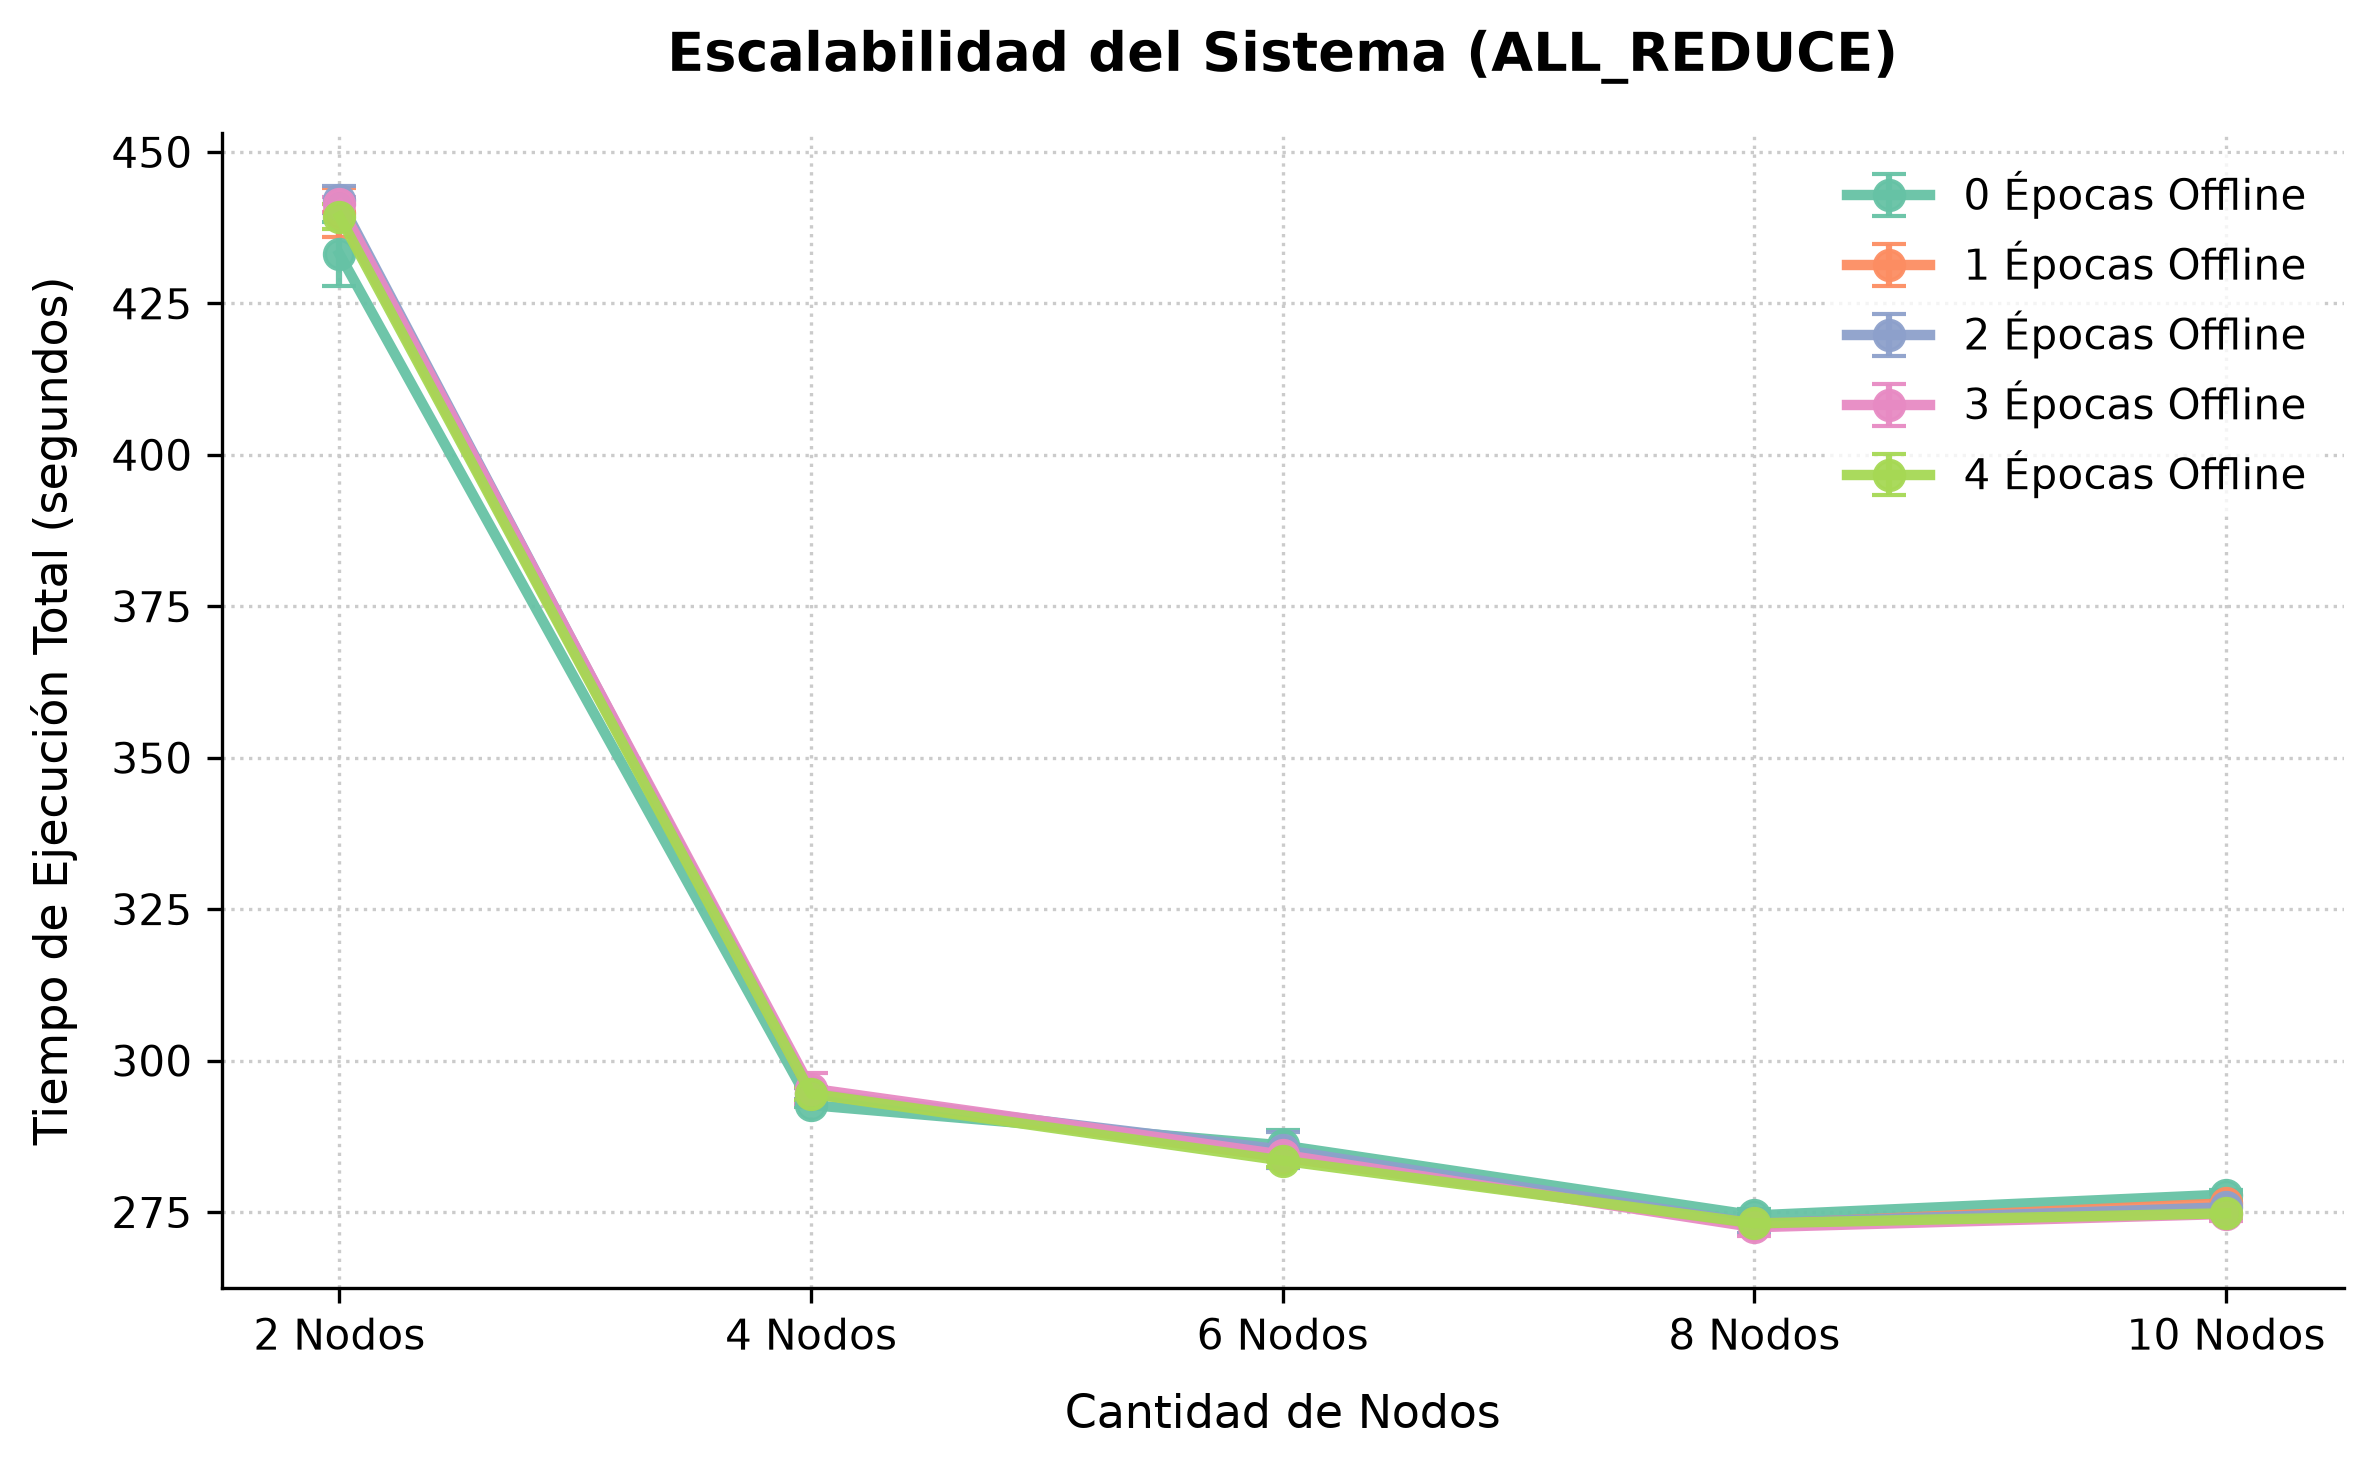
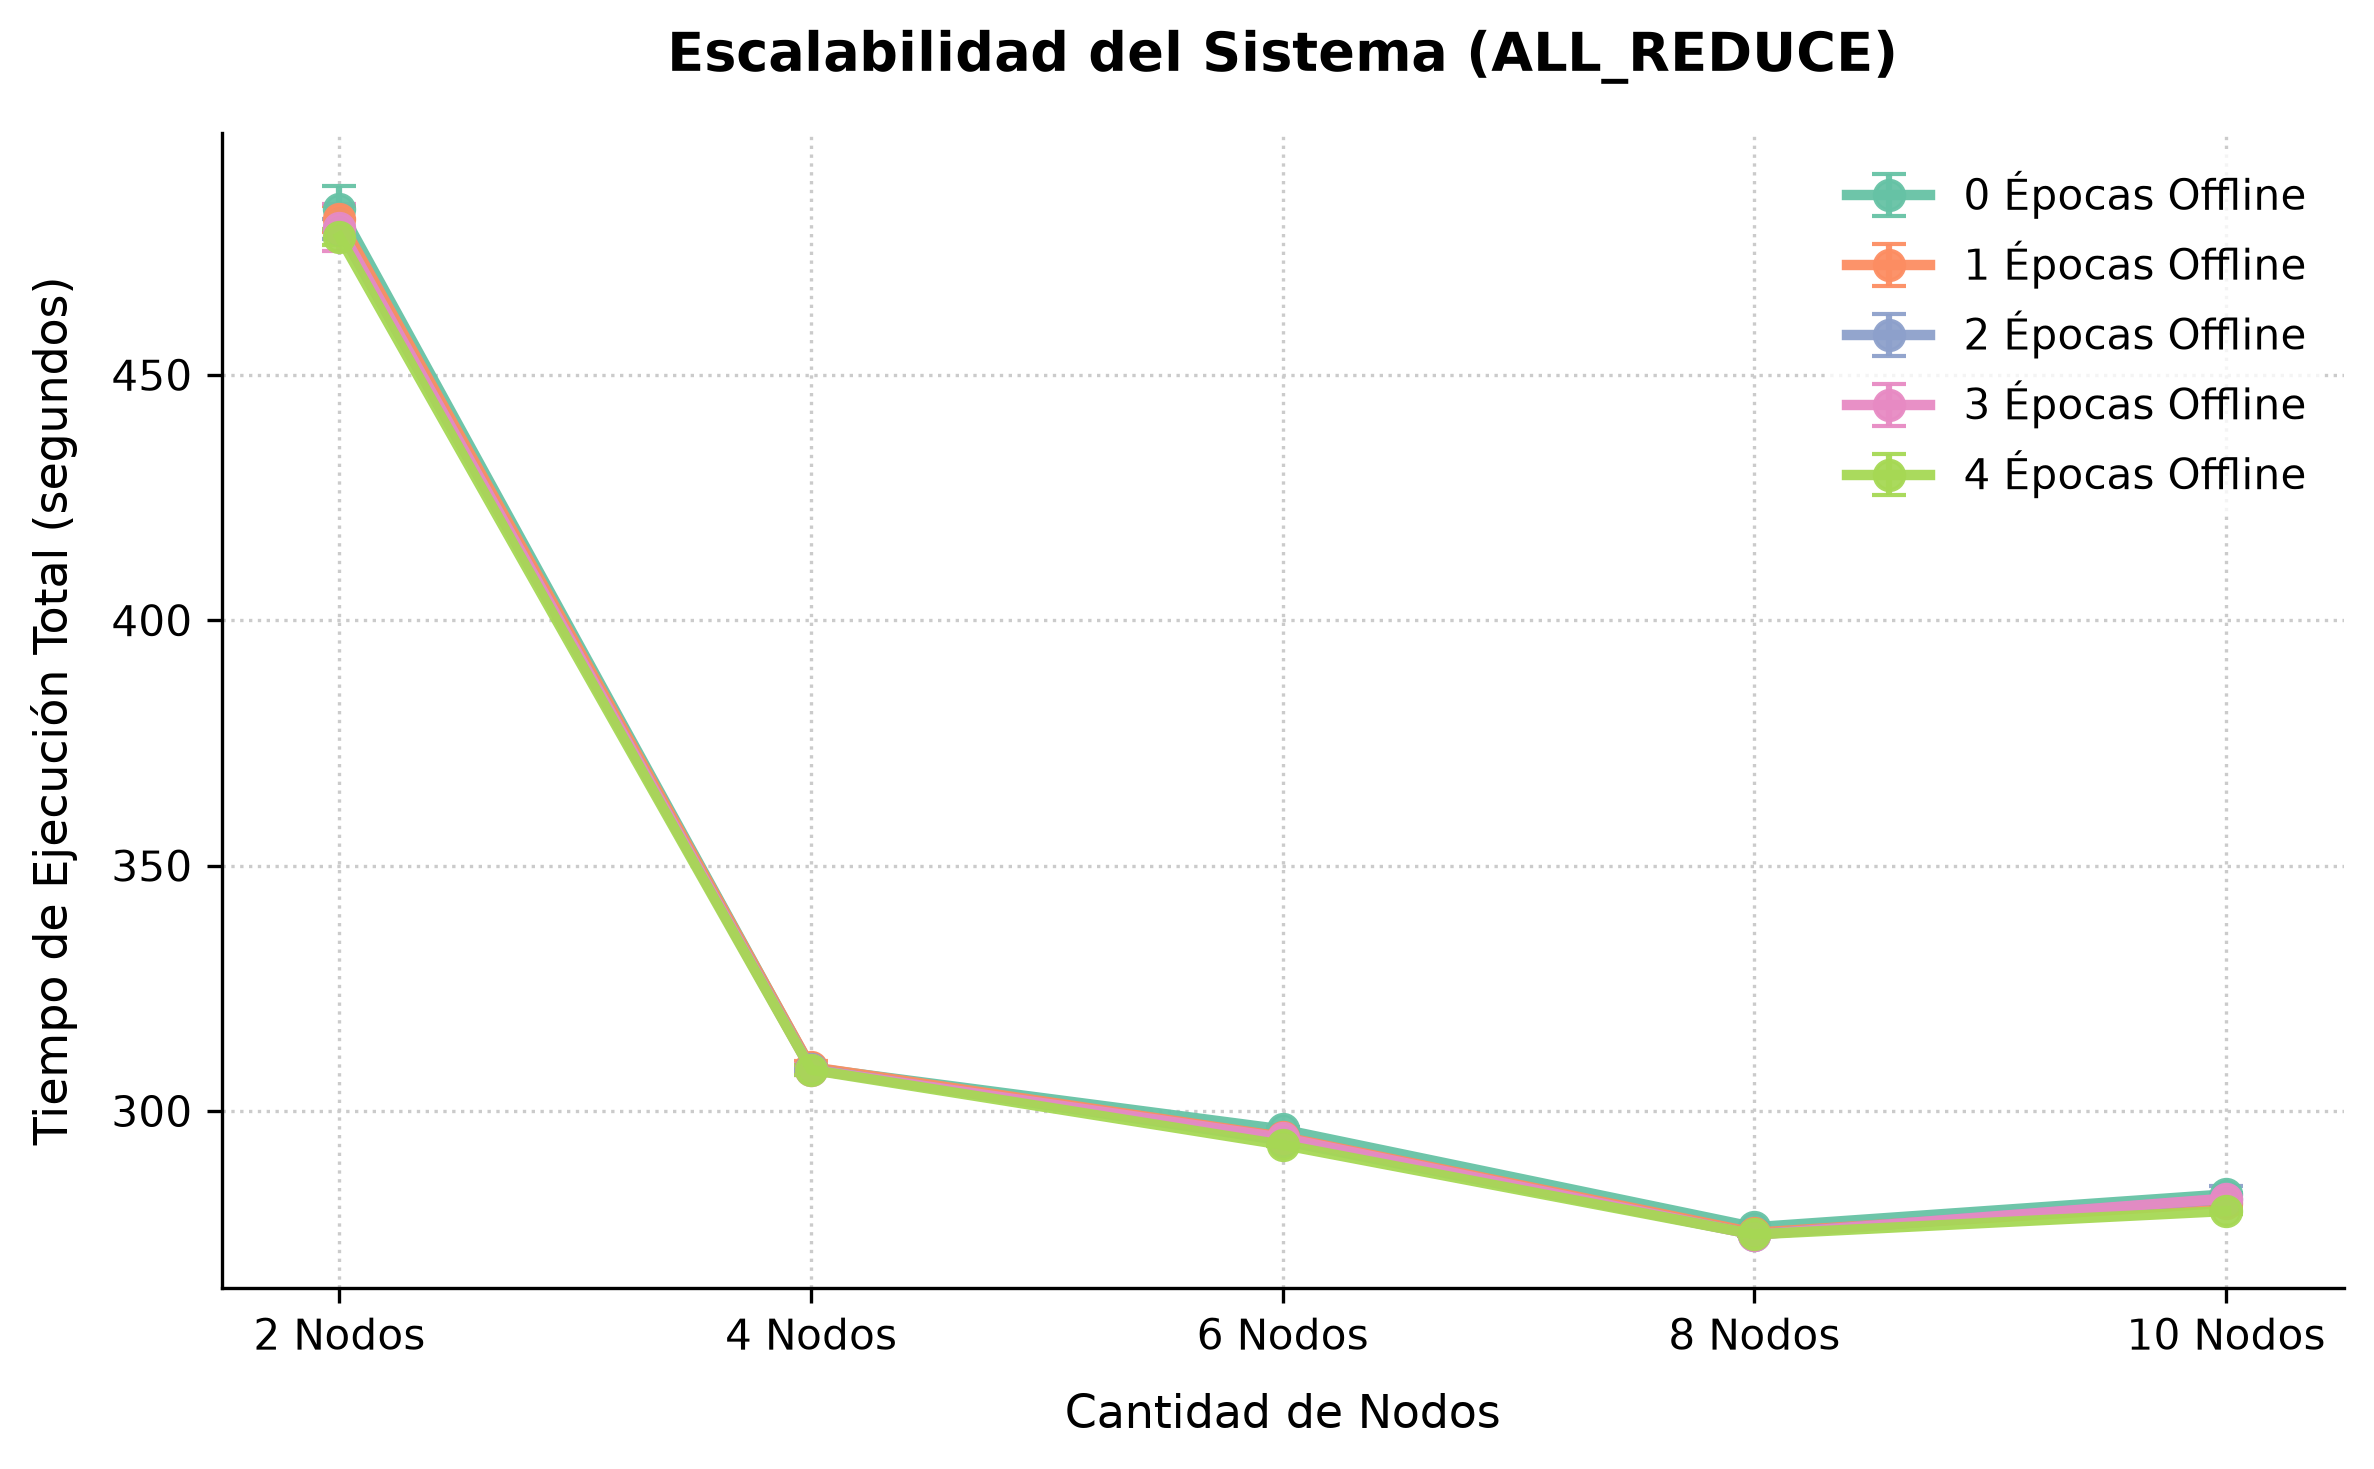
chore: correccion del ensayo II (epocas offline)

diff --git a/docs/report/experimentacion.md b/docs/report/experimentacion.md
@@ -156,30 +156,30 @@ La conclusión, entonces, es condicional y no absoluta: bajo estas condiciones c
 
 Permitir que los nodos operen de forma autónoma durante varias épocas posterga el intercambio de parámetros, disminuyendo la dependencia de la red y priorizando el cómputo local. Sin embargo, demorar la sincronización introduce divergencia entre los pesos de los nodos, un fenómeno conocido como *client drift* [@mcmahan2017federated]. O.N.O. expone este mecanismo como un parámetro de configuración, las épocas offline ($E$), lo que permite estudiarlo de forma directa.
 
-La pregunta es: ¿cómo impactan las épocas offline en la velocidad y en la eficacia del modelo entrenado? La hipótesis de partida era la que motiva la técnica: que un $E$ mayor reduciría el tiempo total a costa de alguna pérdida de exactitud, y que existiría un punto de equilibrio aprovechable.
+La pregunta es: ¿Cómo impacta la variación de las épocas offline $E$ en la velocidad de convergencia, el tiempo de comunicación y la eficacia del modelo entrenado bajo distintas topologías de red en un entorno distribuido con restricciones de red reales?
 
 ### Metodología
 
-Se ejecutaron entrenamientos sobre una misma arquitectura, conjunto de datos e hiperparámetros, variando únicamente el algoritmo distribuido, la cantidad de nodos y el valor de $E$. Todos los ensayos se realizaron de forma secuencial sobre la misma máquina, sumando un total de 10,5 horas de ejecución.
+Se ejecutaron entrenamientos sobre una misma arquitectura, conjunto de datos e hiperparámetros, variando únicamente el algoritmo distribuido, la cantidad de nodos y el valor de $E$. Todos los ensayos se realizaron de forma secuencial sobre la misma máquina, sumando un total de 11 horas y 15 minutos de ejecución.
 
-| Categoría | Parámetro | Valores |
-|---|---|---|
-| Modelo y datos | Dataset | MNIST completo [@lecun1998gradient] |
-|  | Arquitectura | LeNet-5 |
-|  | Función de pérdida | Entropía cruzada |
-| Optimización | Optimizador | Adam ($\alpha=0{,}01$; $\beta_1=0{,}9$; $\beta_2=0{,}999$; $\epsilon=10^{-8}$) |
-|  | Tamaño de mini-batch | 64 |
-|  | Épocas máximas | 48 |
-| Infraestructura | Serialización | Dispersa ($r=0{,}5$) |
-| Variables libres | Algoritmo | All-Reduce, Parameter Server sincrónico |
-|  | Nodos | 2, 4, 6, 8, 10 |
-|  | Épocas offline | 0, 1, 2, 3, 4 |
+| Categoría        | Parámetro            | Valores                                                                        |
+|------------------|----------------------|--------------------------------------------------------------------------------|
+| Modelo y datos   | Dataset              | MNIST completo [@lecun1998gradient]                                            |
+|                  | Arquitectura         | LeNet-5                                                                        |
+|                  | Función de pérdida   | Entropía cruzada                                                               |
+| Optimización     | Optimizador          | Adam ($\alpha=0{,}01$; $\beta_1=0{,}9$; $\beta_2=0{,}999$; $\epsilon=10^{-8}$) |
+|                  | Tamaño de mini-batch | 64                                                                             |
+|                  | Épocas máximas       | 48                                                                             |
+| Infraestructura  | Serialización        | Dispersa ($r=0{,}5$)                                                           |
+| Variables libres | Algoritmo            | All-Reduce, Parameter Server sincrónico                                        |
+|                  | Nodos                | 2, 4, 6, 8, 10                                                                 |
+|                  | Épocas offline       | 0, 1, 2, 3, 4                                                                  |
 
 : Configuración de los ensayos. En Parameter Server, la mitad de los nodos son workers y la otra mitad servidores.
 
-Al parametrizar $E>0$, los nodos entrenan aislados durante múltiples ciclos y el tráfico de red se reduce de forma aproximadamente inversamente proporcional a $E$. Al alcanzar la etapa de sincronización, la consolidación se realiza por promedio directo de los gradientes parciales, de modo que bajo descenso por gradiente la actualización responde a
+Al parametrizar $E>0$, los nodos entrenan aislados durante múltiples ciclos y el tráfico de red se reduce de forma aproximada inversamente proporcional a $E$. Al alcanzar la etapa de sincronización, la consolidación se realiza por promedio directo de los gradientes parciales, de modo que bajo descenso por gradiente la actualización responde a
 
-$$W_{t+1} = W_{t} - \frac{\lambda}{N}\sum_{i=1}^{N} G_{i}.$$
+$$W_{t + E} = W_{t} - \frac{\lambda}{N} \sum_{i=1}^{N} G_{i}^{(E)}$$
 
 Los ensayos se realizaron con la serialización dispersa que implementa el sistema, siguiendo el enfoque de Aji y Heafield [@aji2017sparse]. El parámetro $r$ acota el muestreo del gradiente que se transmite: se calcula la cardinalidad efectiva del mensaje como
 
@@ -187,7 +187,9 @@ $$k = \operatorname{round}\bigl(|g|\cdot(1-r)\bigr),$$
 
 y ese valor $k$ se utiliza para escoger los $k$ elementos de mayor magnitud absoluta del tensor de gradientes local, fijando un umbral mínimo. Los elementos descartados se acumulan en un gradiente residual que se considera en el mensaje siguiente. Con $r=0{,}5$, la mitad de los componentes queda fuera de cada mensaje.
 
-El entorno de ejecución fue un procesador Intel Core i5-8350U (4 núcleos físicos, 8 hilos lógicos, 1,7 GHz base y 3,6 GHz turbo) con 8 GB de memoria DDR4, sobre Ubuntu 24.04 LTS, Docker 29.6.1, Rust 1.96.1 y CPython 3.14.0.
+El entorno de ejecución fue un procesador Intel Core i5-8350U (4 núcleos físicos, 8 hilos lógicos, 1,7 GHz base y 3,6 GHz turbo) con 8 GB de memoria DDR4, sobre Ubuntu 24.04 LTS, Docker 29.6.1, Rust 1.96.1, CPython 3.14.0 y Pumba 1.1.7.
+
+Con Pumba se logró emular una red hogareña típica en cuestión de delay, jitter y ancho de banda.
 
 ### Resultados: tiempo de ejecución
 
@@ -227,7 +229,7 @@ En All-Reduce se observa un patrón similar, aunque con oscilaciones relativamen
 
 ### Discusión y limitaciones
 
-La ventaja de introducir épocas offline es estrictamente reducir el tiempo de entrenamiento. En un entorno local simulado, eliminar el costo de comunicación no compensa el costo de obtener un peor modelo: en estos experimentos no se evidenció ninguna ventaja de utilizar un $E$ mayor a 0.
+La ventaja de introducir épocas offline es estrictamente reducir el tiempo de entrenamiento. En un entorno local simulado, reducir el costo de comunicación no compensa el costo de obtener un peor modelo: en estos experimentos no se evidenció ninguna ventaja de utilizar un $E$ mayor a 0.
 
 En contraposición, en un despliegue multimáquina sobre una red física, retrasar la agregación de gradientes puede resultar crítico para amortizar el tiempo de comunicación. La decisión depende de tres factores: el tamaño del modelo, la velocidad de la red y la cantidad de nodos. Con modelos más grandes, los mensajes que contienen gradientes y parámetros son también más grandes. Para entrenamientos con mucho dato y poco modelo, el cuello de botella es el cómputo de gradientes; en cambio, para entrenamientos con poco dato y mucho modelo, donde la comunicación toma protagonismo, incrementar $E$ puede ser útil para reducir los tiempos de ejecución.
 
